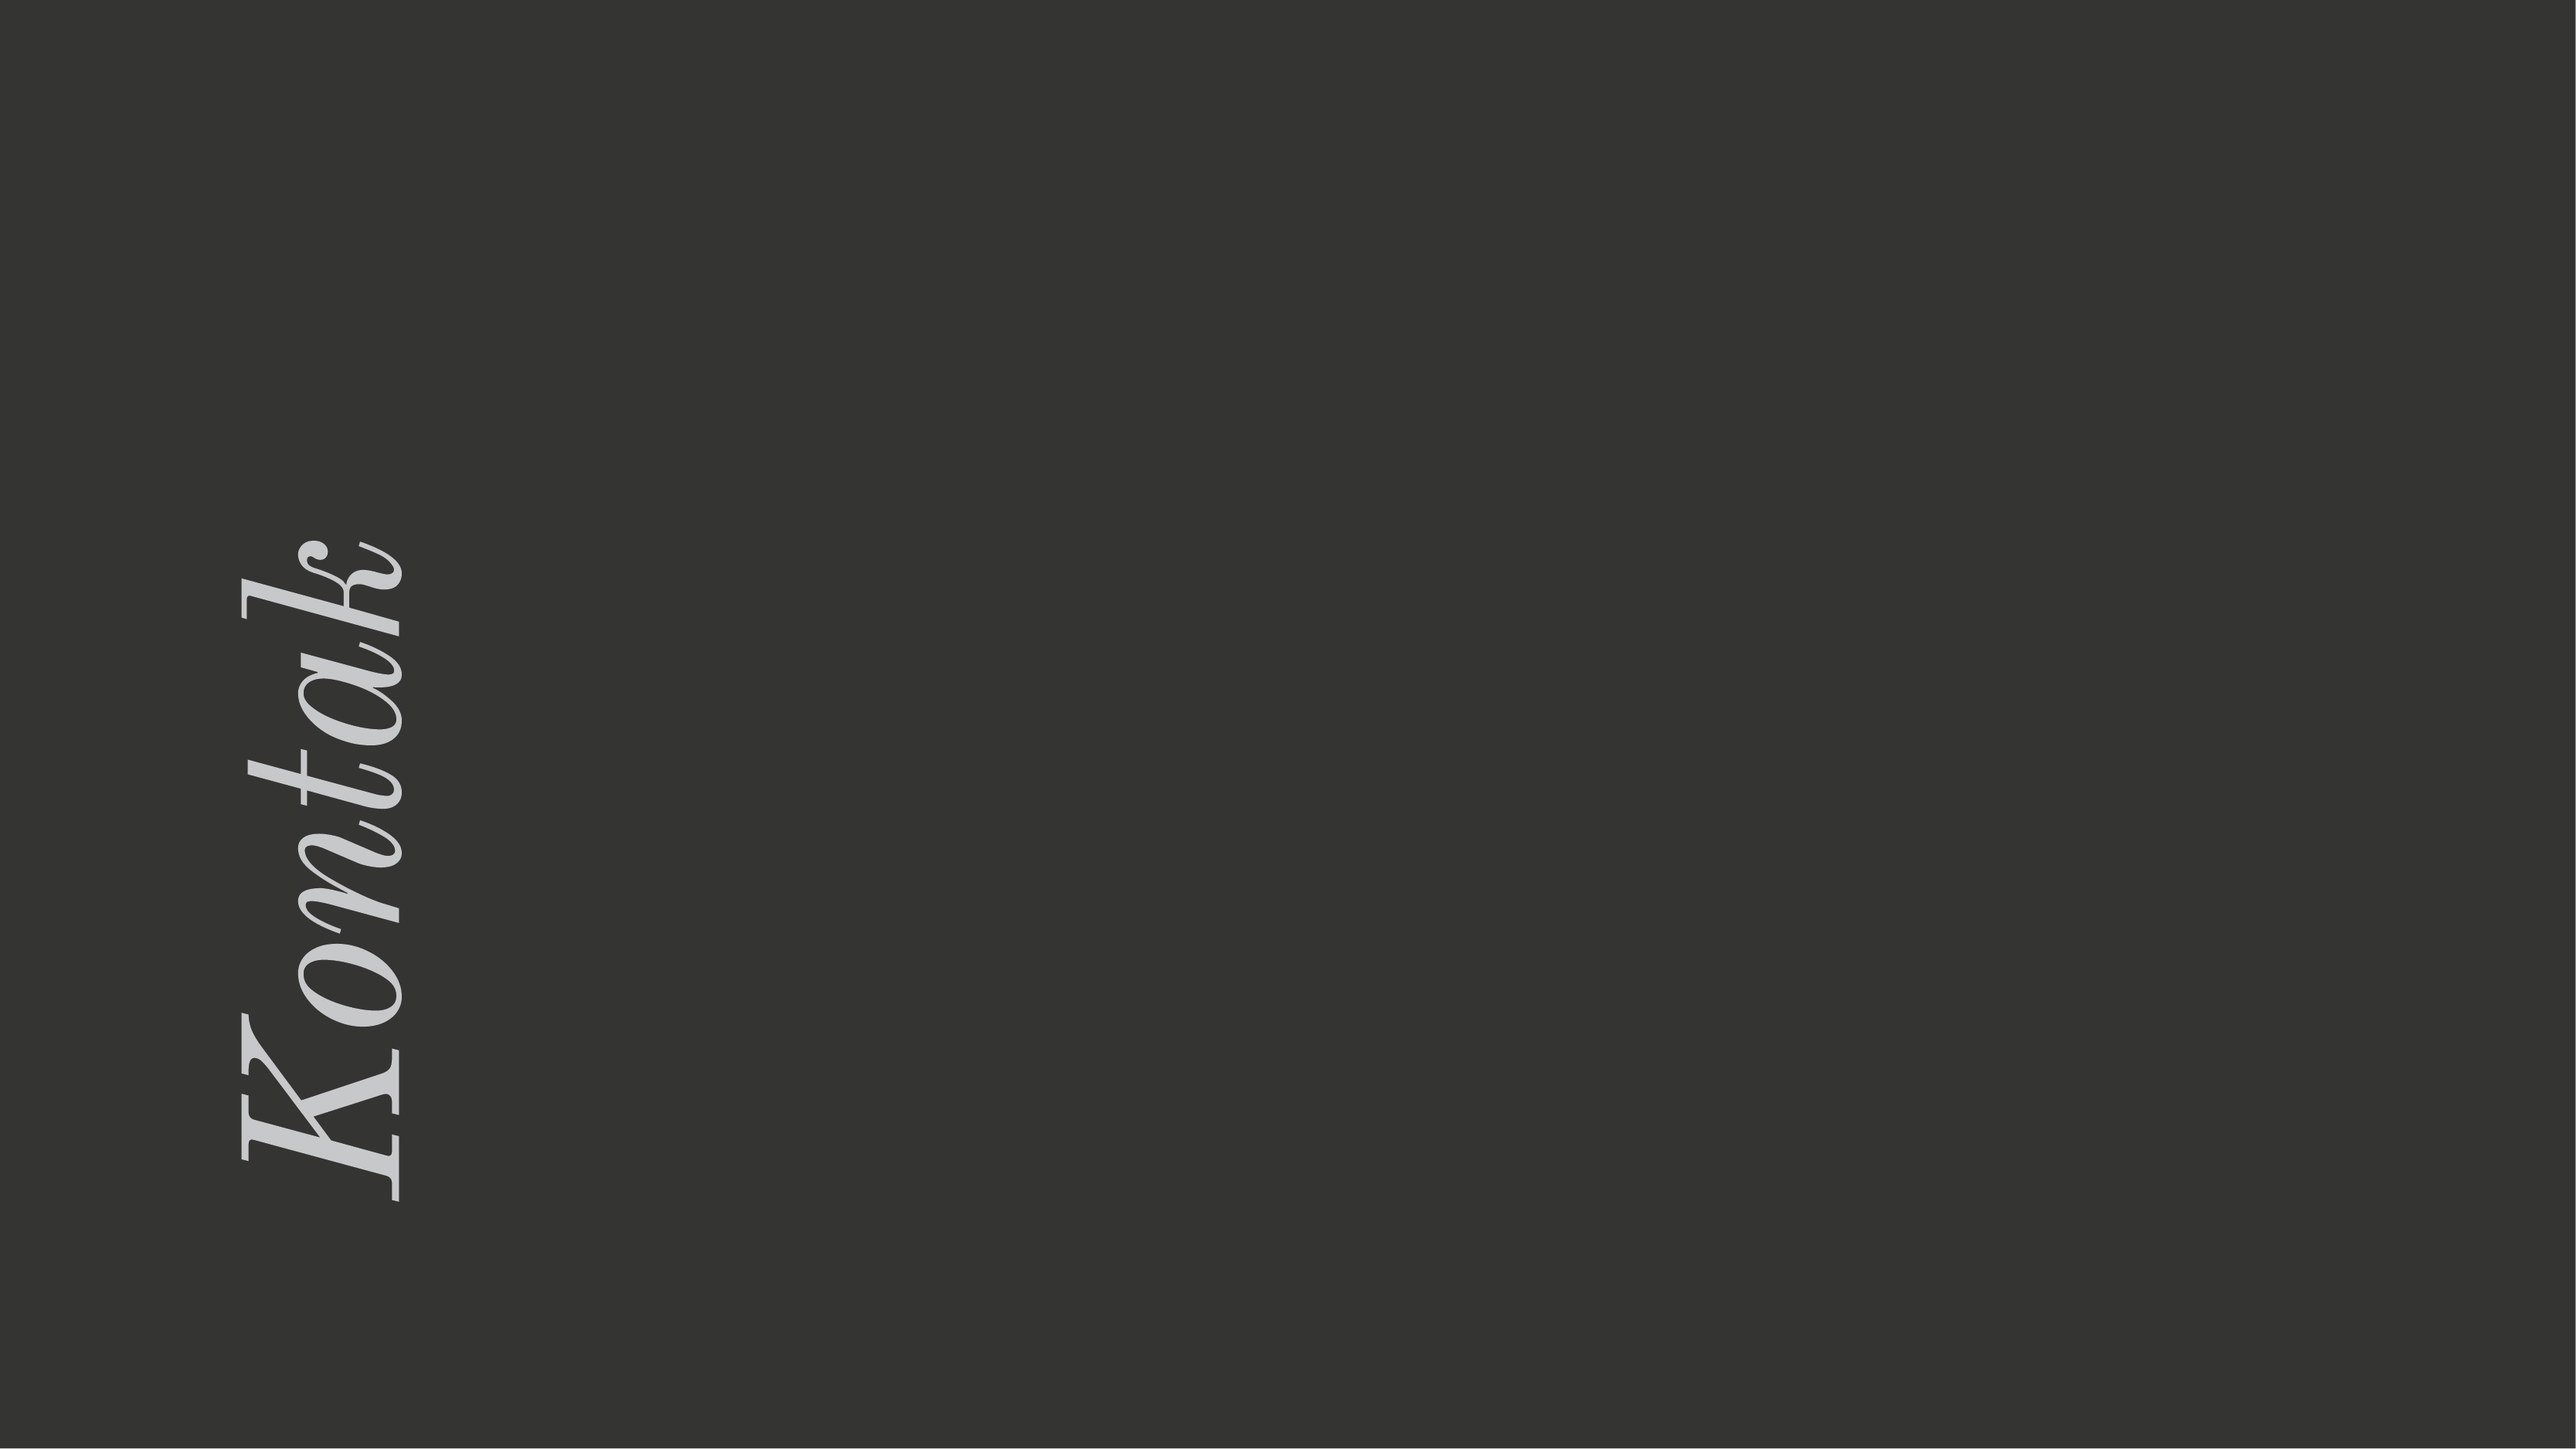
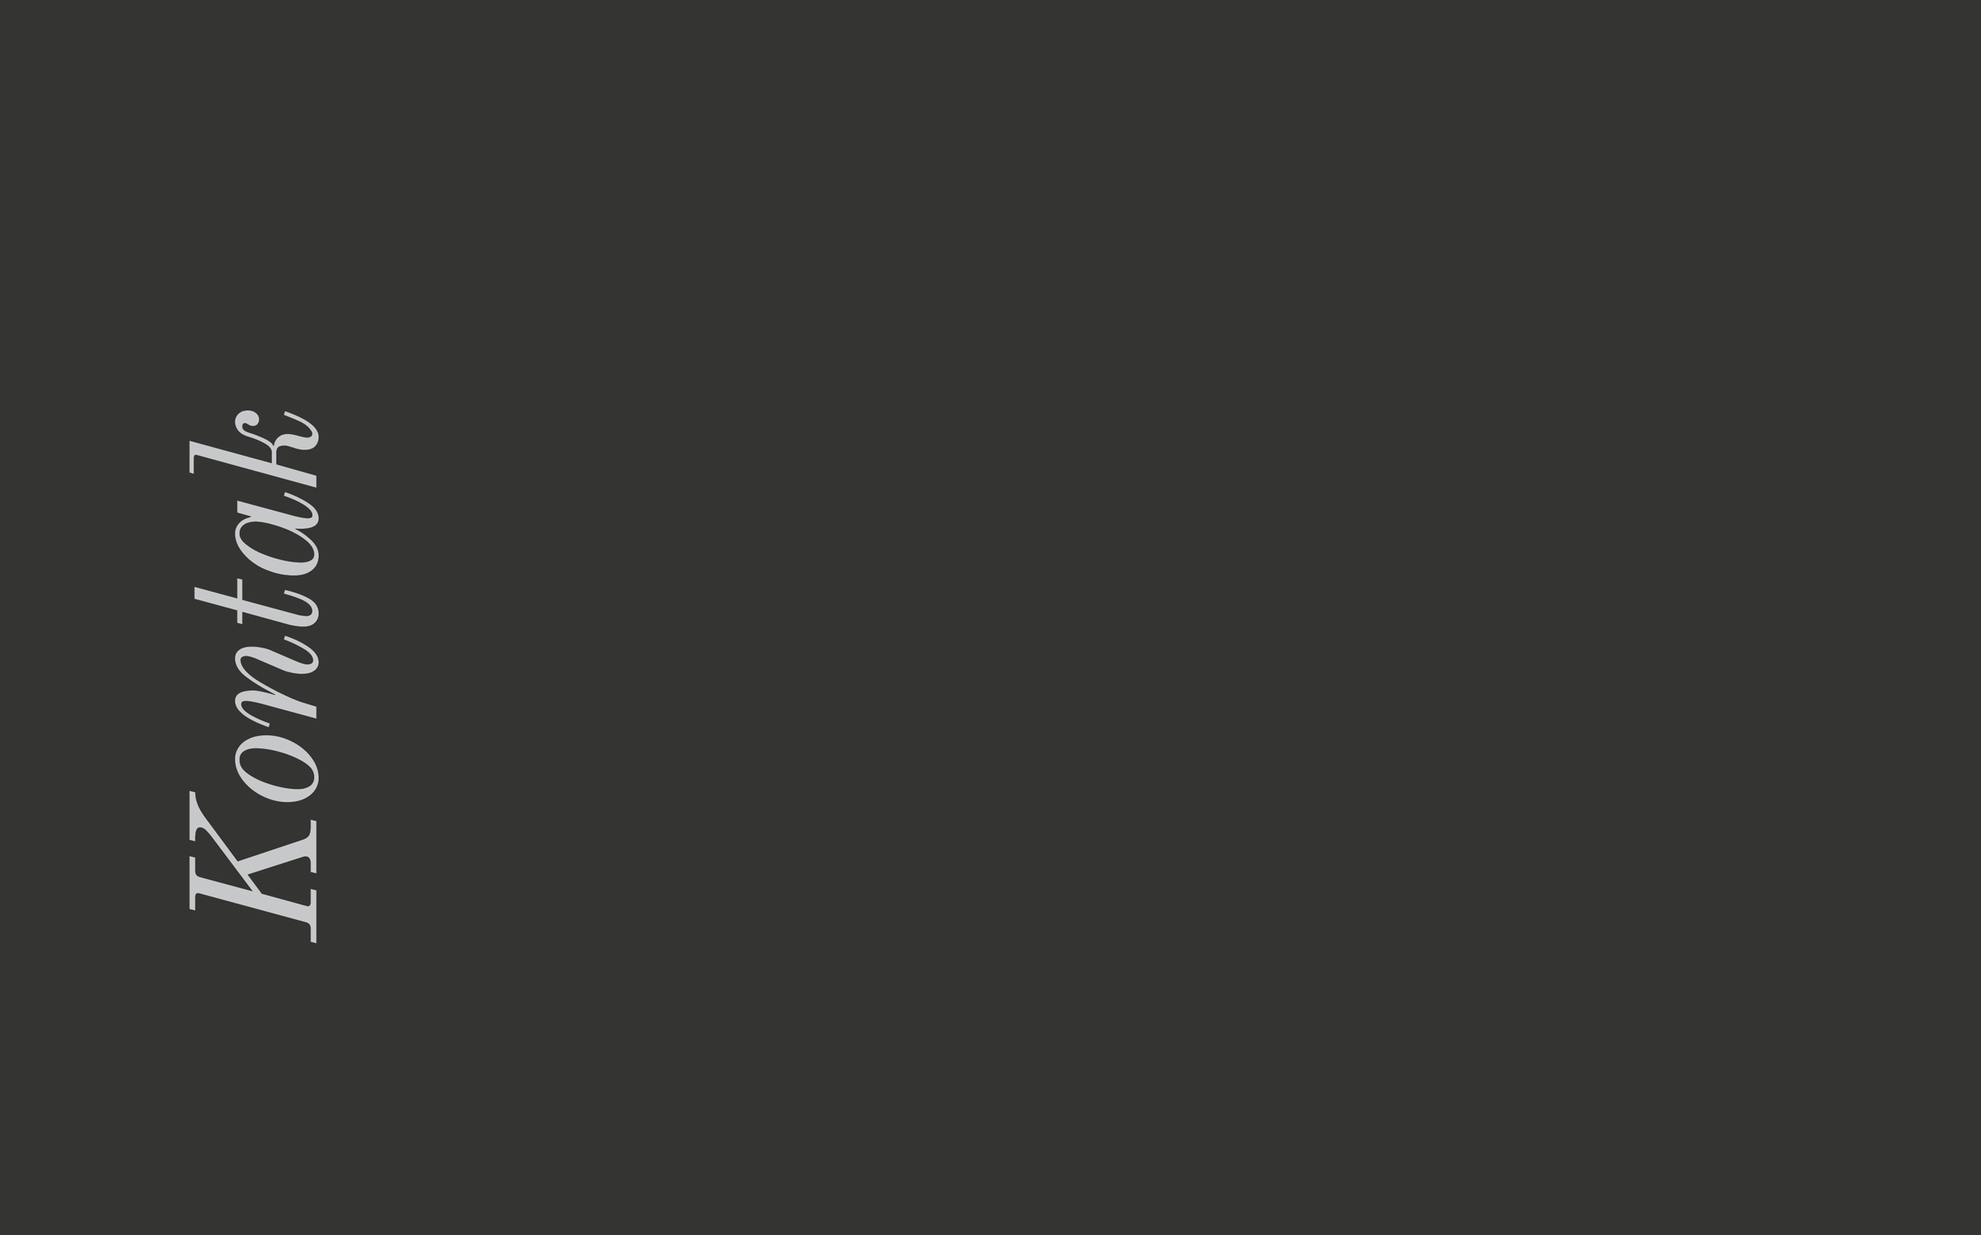
update home asset

Changed region(s): [[0.9981, 0.0, 1.0, 1.0], [0.0936, 0.3371, 0.1871, 0.8274]]

diff --git a/public/css/secan_plugins.css b/public/css/secan_plugins.css
@@ -13152,7 +13152,7 @@ a.text-chocolate:hover, a.text-chocolate:focus {
     padding-left: 2em;
     padding-right: 2em;
     text-align: center;
-    bottom: -1em;
+    bottom: -6em;
     position: absolute;
     left: -2em;
 }

diff --git a/public/css/custom.css b/public/css/custom.css
@@ -167,7 +167,7 @@ a.text-chocolate:hover, a.text-chocolate:focus {
     padding-left: 2em;
     padding-right: 2em;
     text-align: center;
-    bottom: -1em;
+    bottom: -6em;
     position: absolute;
     left: -2em;
 }

diff --git a/resources/views/front/pages/home.blade.php b/resources/views/front/pages/home.blade.php
@@ -40,7 +40,7 @@
         </div>
     </div>
     <!-- About Section-->
-    <section class="bg-cover bg-center" style="background-image: url({{ asset('images/bg_section_about.png') }})">
+    <section class="bg-cover bg-center" style="background-image: url({{ asset('images/bg_section_about_2.png') }})">
             
         <div class="container">
              <div class="row">
@@ -96,7 +96,7 @@
     </section>
 
     <!-- Youtube Section -->
-    <section class="pt-5 bg-cover bg-center" style="background-image: url({{ asset('images/bg_section_full_video.png') }})">
+    <section class="pt-5 bg-cover bg-center" style="background-image: url({{ asset('images/bg_section_full_video_new.png') }})">
             
         <div class="container">
              <div class="row">
@@ -132,7 +132,8 @@
         <div class="container mt-5">
             <div class="row">
                 <div class="col-md-12">
-                    <img src="{{ asset('images/Asset 04_video play .png') }}" style="width: 100%;position: relative;z-index: 9;" />
+                    
+                        <iframe style="width: 100%;position: relative;z-index: 9;" height="565" src="https://www.youtube.com/embed/KZKwflR8cJo" frameborder="0" allow="accelerometer; autoplay; clipboard-write; encrypted-media; gyroscope; picture-in-picture" allowfullscreen></iframe>
                     <div class="circle">
                         <span>Disini tempat video tentang tips dan olah kecantikan untuk kamu.</span>
                         <h5 style="margin-top:1em;">

diff --git a/resources/views/front/partials/header.blade.php b/resources/views/front/partials/header.blade.php
@@ -43,7 +43,7 @@
             <!-- <div class="row"> -->
                 <!-- <div class="col-md-3"> -->
                     <div class="d-flex navbar-brand">
-                        <img id="logo-images" class="logo" src="{{ asset('images/logo_header.png') }}">
+                        <img id="logo-images" class="logo" src="{{ asset('images/logo.svg') }}">
                     </div>
                 <!-- </div> -->
                     <button class="navbar-toggler navbar-toggler-right" type="button" data-toggle="collapse"
